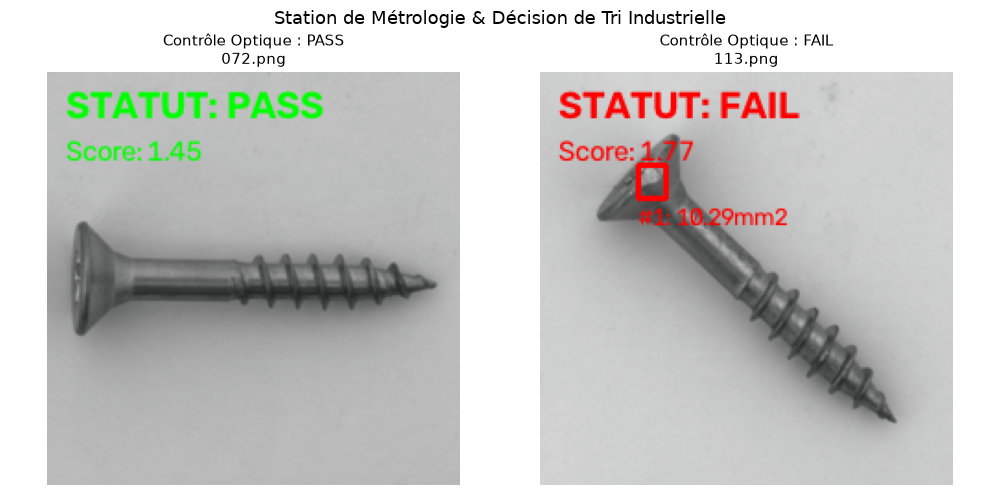
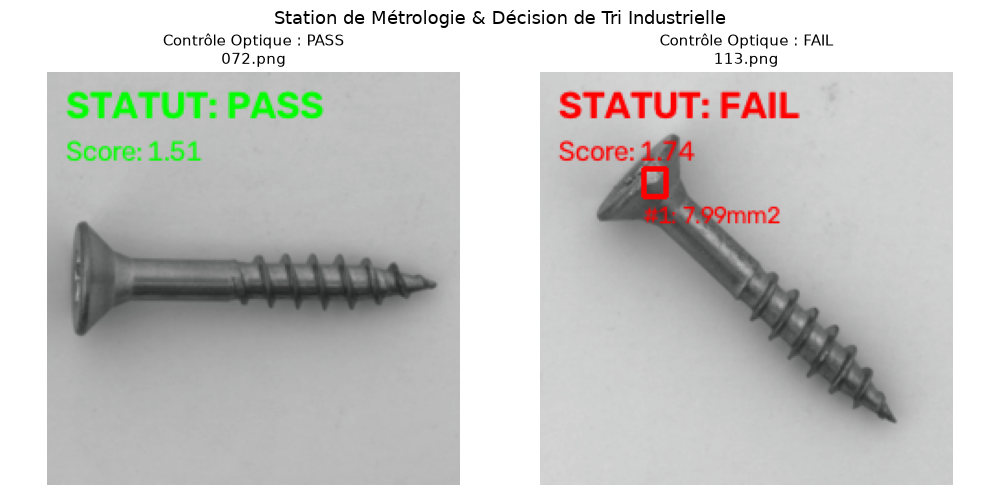
docs: document operating points with ROC curve, end-to-end latency, limitations and refreshed results

Changed region(s): [[0.62, 0.27, 0.806, 0.45], [0.155, 0.27, 0.217, 0.33]]

diff --git a/README.md b/README.md
@@ -46,12 +46,30 @@ Continuous anomaly heatmap generated via intermediate feature space deviation (l
 
 | Metric | Baseline (no pooling, 10 % memory bank) | Feature Aggregation (Optimized) | Target / Requirement |
 | :--- | :---: | :---: | :---: |
-| **AUROC (Overall)** | 81.49 % | **92.42 %** | > 90.0 % |
-| **Precision** | 96.00 % | **98.55 %** | Low False Alarm Rate |
-| **Defect Sensitivity (Recall)** | 40.34 % | **57.14 %** | High Defect Capture |
-| **F1-Score** | 56.80 % | **72.34 %** | Balanced Performance |
+| **AUROC (Overall)** | 83.09 % | **93.48 %** | > 90.0 % |
+| **Precision** | 96.43 % | **98.59 %** | Low False Alarm Rate |
+| **Defect Sensitivity (Recall)** | 45.38 % | **58.82 %** | High Defect Capture |
+| **F1-Score** | 61.71 % | **73.68 %** | Balanced Performance |
 
 Both columns use the same protocol (decision threshold = 95th percentile of 5-fold cross-validated nominal scores, never tuned on the test set) and the same 160 test images (41 nominal, 119 defective). The only differences are the 3x3 neighborhood pooling and the memory bank size (10 % vs 20 % of the patches). The baseline can be reproduced with `python evaluate.py --baseline`.
+
+### Choosing the Operating Point (Detection vs. False Alarms)
+
+The decision threshold is a business choice: a lower threshold catches more defects but rejects more good parts. Each threshold below is the given percentile of the cross-validated scores of **nominal parts only**; the test set is used to report the effect of each setting, not to pick it.
+
+| Threshold (percentile of nominal scores) | Recall | Good parts rejected | Precision (test set) |
+| :--- | :---: | :---: | :---: |
+| P99 | 38.7 % | 0.0 % | 100.0 % |
+| **P95 (default)** | 58.8 % | 2.4 % | 98.6 % |
+| P90 | 69.7 % | 4.9 % | 97.6 % |
+| P80 | 81.5 % | 12.2 % | 95.1 % |
+
+![ROC Curve with Operating Points](assets/roc_curve.png)
+
+* The ROC curve plots recall against the share of good parts rejected; the area under it is the AUROC (93.5 %). The red points are the four thresholds above.
+* Only 41 nominal test images exist, so each rate is coarse (one image = 2.4 points) and the curve is stepped.
+* The test set contains 74 % defective parts, which inflates the precision column (see Limitations).
+* The threshold used by `run_inspection.py` can be changed with `python evaluate.py --percentile 90`.
 
 ### Inference Latency Benchmark (Intel Core i9-13900HX, CPU)
 
@@ -61,6 +79,8 @@ Feature-extraction backbone only (ResNet-18 up to layer3), 224x224x3 frames. Med
 | :--- | :---: | :---: | :---: |
 | **PyTorch Native (CPU)** | 9.3 – 15.3 ms | 65 – 108 FPS | Baseline |
 | **ONNX Runtime (CPU)** | **3.5 – 5.1 ms** | **196 – 284 FPS** | **-62 to -70 %** |
+
+These figures cover the backbone only. The complete inspection also runs the k-NN search of every patch against the memory bank, which is not exported to ONNX. Timed once on the same CPU with an ad hoc script (median of 10 runs, not included in the repository): backbone ≈ 12 ms, k-NN search ≈ 154 ms, full `inspect()` ≈ 205 ms, i.e. about **5 images/s** end to end. The ONNX speed-up therefore applies to roughly 6 % of the total time, and the k-NN search is the real bottleneck.
 
 
 
@@ -134,7 +154,9 @@ defect-vision-screw/
 
 │   ├── heatmap_localization.png
 
-│   └── metrology_inspection.png
+│   ├── metrology_inspection.png
+
+│   └── roc_curve.png
 
 ├── data/
 
@@ -168,7 +190,7 @@ defect-vision-screw/
 
 ├── explore_data.py           # Optical frame inspection visualizer
 
-├── evaluate.py               # Benchmark script (AUROC, Precision, Recall, Confusion Matrix)
+├── evaluate.py               # Benchmark script (AUROC, Precision, Recall, operating points, ROC curve)
 
 ├── visualize_heatmap.py      # Spatial anomaly heatmap visualizer (Jet overlay)
 
@@ -240,6 +262,8 @@ python evaluate.py
 
 python evaluate.py --baseline   # optional: initial version, for comparison
 
+python evaluate.py --percentile 90   # optional: lower threshold, more defects caught, more false alarms
+
 ```
 
 
@@ -286,4 +310,31 @@ python benchmark_latency.py
 
 * **Calibrated Physical Metrology:** Converts segmented pixel clusters into physical surface measurements (mm²) using an optical calibration factor (50 µm / pixel), with the threshold calibrated (95th percentile) with 5-fold cross-validation on the 320 nominal training parts, never on the test set, and areas rescaled to the native 1024 px resolution.
 
-* **Edge-Optimized Runtime:** Eliminates autograd overhead and leverages AVX/SIMD vectorization via ONNX Runtime, achieving a backbone throughput of roughly **200 – 280 FPS** on a laptop CPU (the k-NN search is not included in this measure).
+* **Edge-Optimized Runtime:** Eliminates autograd overhead and leverages AVX/SIMD vectorization via ONNX Runtime, achieving a backbone throughput of roughly **200 – 280 FPS** on a laptop CPU. The complete pipeline, which also includes the k-NN search, runs at about 5 images/s on the same CPU (see the latency section).
+
+---
+
+## Limitations
+
+This is a prototype evaluated on a public benchmark, not a validated production system. The points below explain what the results do and do not show.
+
+**1. Small test set: the rates are rough orders of magnitude.**
+* The test set has 160 images (119 defective, only 41 nominal) and every result comes from a single random seed.
+* The random draw of the memory-bank patches matters: an earlier run with a different draw gave an AUROC of 92.4 % instead of 93.5 % (baseline: 81.5 % instead of 83.1 %). Differences of 1 to 2 points are within this noise.
+* Example: 1 good part rejected out of 41 is a 2.4 % false-alarm rate, but the 95 % confidence interval is 0.06 % to 12.9 %. The recall of 58.8 % (70 / 119) has an interval of 49.4 % to 67.8 %.
+* These are exact binomial (Clopper-Pearson) intervals: the range of true rates for which the observed result would not be rarer than 2.5 % on either side. They are not computed by the project code; to reproduce them: `scipy.stats.binomtest(1, 41).proportion_ci(method="exact")`.
+* With 41 nominal images, rates move in steps of 2.4 points: the P95 and P90 rows (2.4 % vs 4.9 %) differ by a single image.
+* To reduce this: more nominal test images and several random seeds.
+
+**2. Real production has far fewer defects than the test set.**
+* The test set is 74 % defective, which inflates precision. In production defects are rare: a fastener supplier quotes about 200 PPM (0.02 %) as an accepted level in high-volume production (vendor figure, indicative only).
+* Illustration for 100,000 parts, assuming 200 PPM and the measured 2.4 % false-alarm rate: about 20 defective parts, of which about 12 are detected, and about 2,400 good parts flagged.
+* Used as **automatic rejection**, the system would scrap about 2,400 good parts to remove 12 defective ones. Used as an **inspection aid** (it flags parts and a human decides), an operator checks about 2,400 parts and finds about 12 defects, whereas checking as many parts at random would find about 0.5 on average. The intended use is the second one.
+
+**3. The pixel size is assumed and the measured areas are not validated.**
+* Converting pixels to mm² requires the real size of one pixel, which depends on the camera, the lens and the distance. The 50 µm / pixel used here is an assumption: if the real value were 100 µm, every area would be 4 times larger. A real deployment would measure it with a reference target of known dimensions.
+* MVTec provides ground-truth masks (images marking the defective pixels), which this project does not use. The system is evaluated on whether it flags a part, not on whether the area it outlines matches the real defect. Validating areas would require comparing the detected regions with those masks.
+
+**4. The ONNX speed-up covers only a small part of the pipeline.**
+* The ONNX export and the latency table cover the ResNet-18 backbone only. The k-NN search takes about 154 ms against about 12 ms for the backbone (single ad hoc measurement), so the complete pipeline runs at about 5 images/s on the test laptop.
+* Speeding up the search (for example with an approximate nearest-neighbor library) would be the first lever to try.
